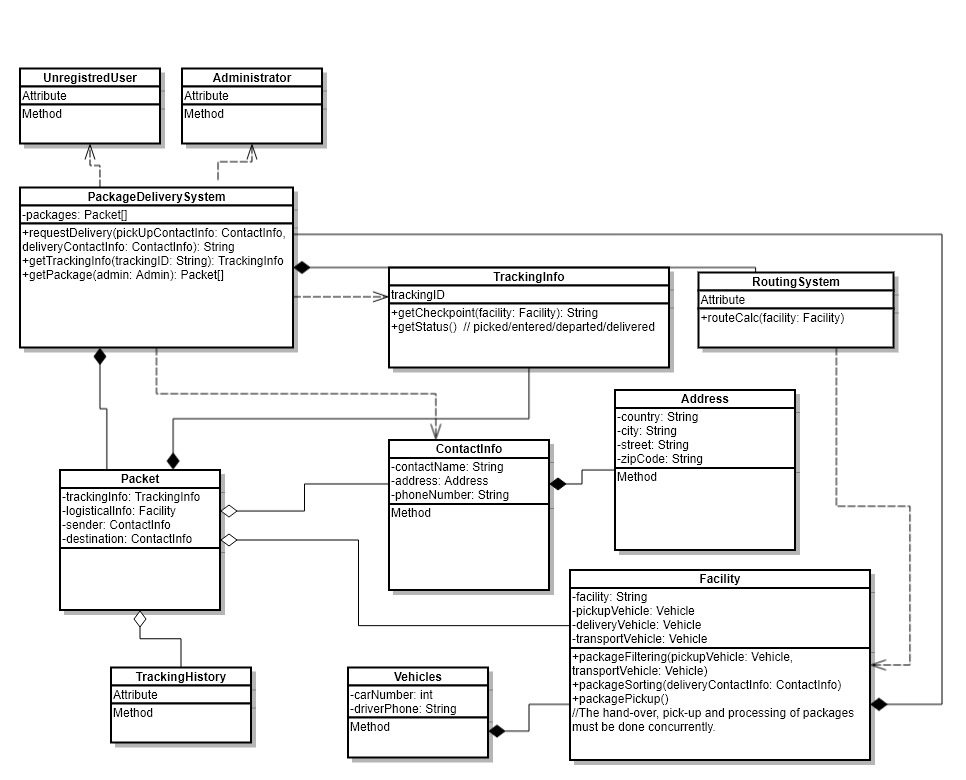
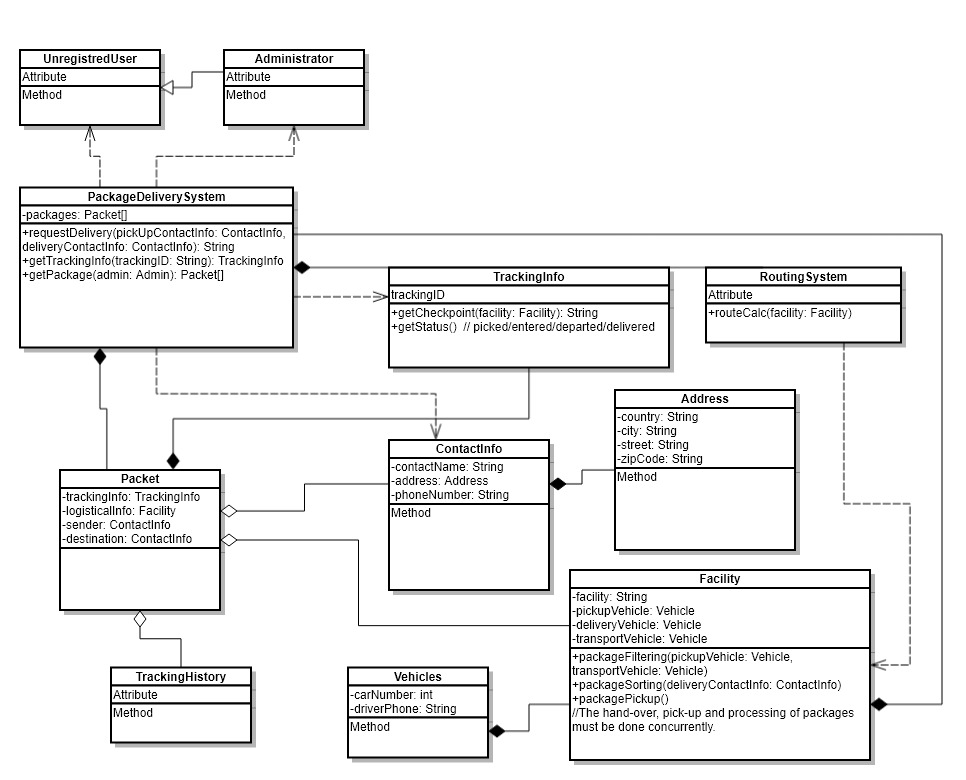
Changed relation between Administrator class and UnregisteredUser class

Changed region(s): [[0.0, 0.0615, 0.4037, 0.2154], [0.7143, 0.3385, 0.9627, 0.4615], [0.8696, 0.6154, 0.9317, 0.6769]]

diff --git a/PackageDeliverySystem/src/main/java/ro/siit/java/pds/Administrator.java b/PackageDeliverySystem/src/main/java/ro/siit/java/pds/Administrator.java
@@ -1,4 +1,4 @@
 package ro.siit.java.pds;
 
-public class Administrator {
+public class Administrator extends UnregisteredUser {
 }
